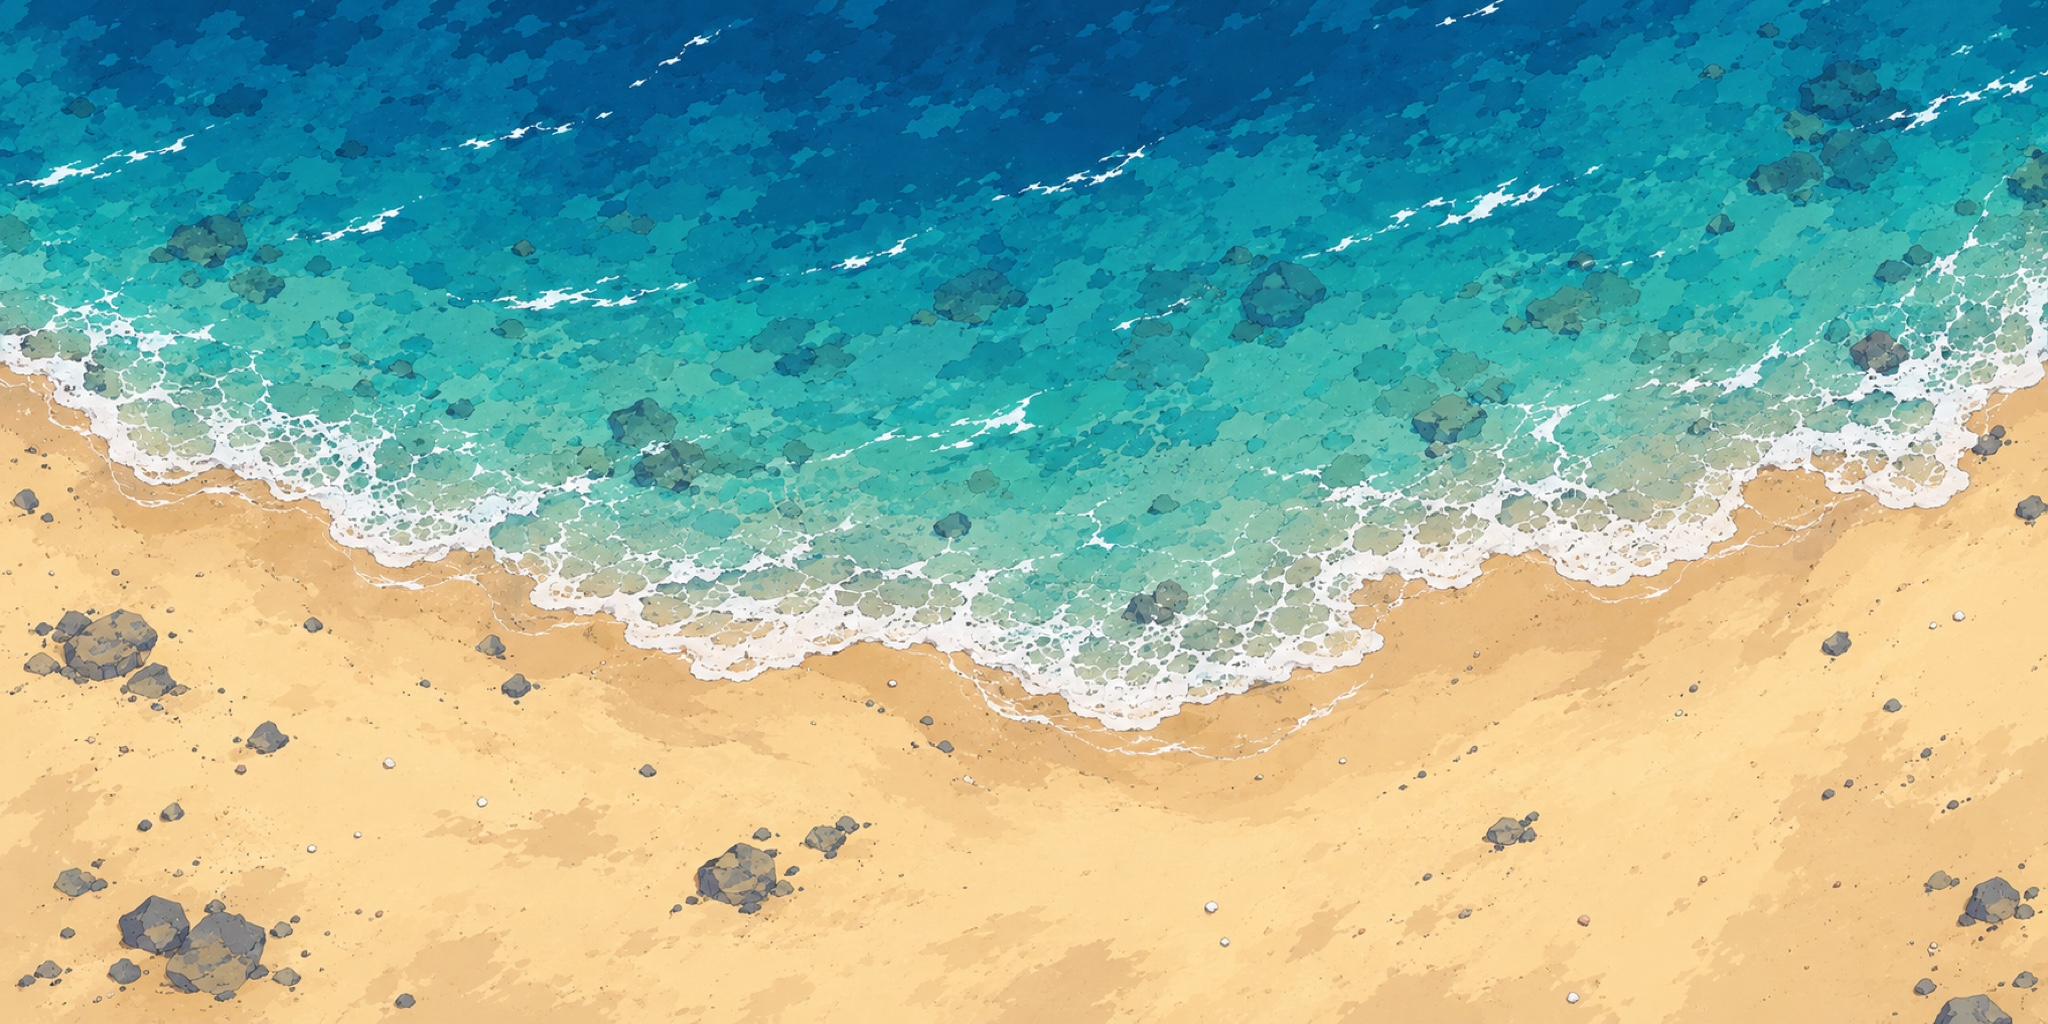
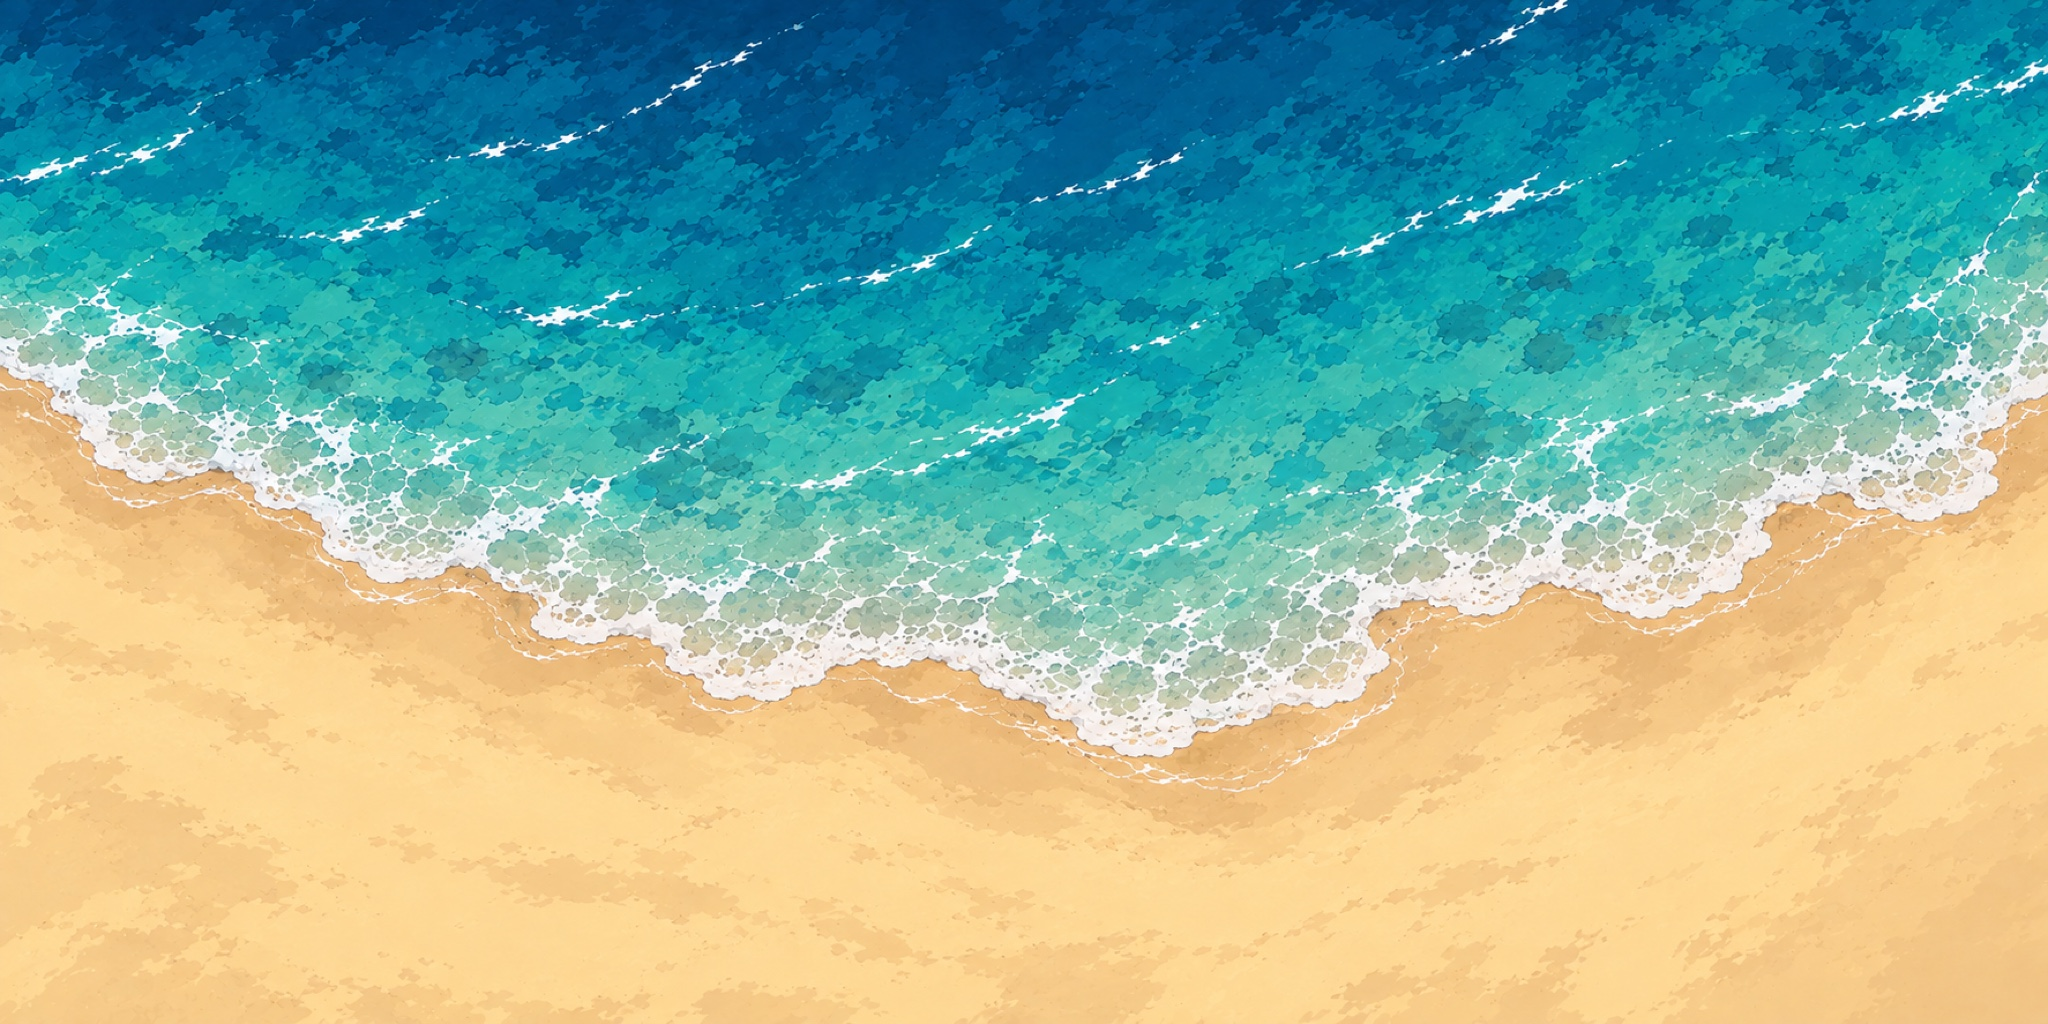
Shore painting swapped for Josh's rock-free version

diff --git a/public/planet.html b/public/planet.html
@@ -495,7 +495,7 @@ const colliders=[];let skyDome=null,nightDome=null,SUNSET=null;const PLACES={};
     const cv2=document.createElement('canvas');cv2.width=2048;cv2.height=1024;const g2=cv2.getContext('2d');g2.fillStyle='#e9dcb0';g2.fillRect(0,0,2048,1024);
     const tex=new THREE.CanvasTexture(cv2);tex.wrapS=THREE.MirroredRepeatWrapping;tex.wrapT=THREE.ClampToEdgeWrapping;tex.anisotropy=8;
     const img=new Image();img.onload=()=>{g2.drawImage(img,0,0,2048,1024);pathTex.ctx.drawImage(img,1080,700,320,300,0,0,512,512);pathTex.needsUpdate=true;const px=g2.getImageData(1024,24,1,1).data;waterMat.color.setRGB(px[0]/255,px[1]/255,px[2]/255); /* the open sea takes the painting's deep blue so the join disappears */
-      g2.globalCompositeOperation='destination-in';const fd=g2.createLinearGradient(0,0,0,1024);fd.addColorStop(0,'rgba(0,0,0,0)');fd.addColorStop(.18,'rgba(0,0,0,1)');fd.addColorStop(.93,'rgba(0,0,0,1)');fd.addColorStop(1,'rgba(0,0,0,0)');g2.fillStyle=fd;g2.fillRect(0,0,2048,1024);g2.globalCompositeOperation='source-over';tex.needsUpdate=true;};img.src='assets/shore.jpg';
+      g2.globalCompositeOperation='destination-in';const fd=g2.createLinearGradient(0,0,0,1024);fd.addColorStop(0,'rgba(0,0,0,0)');fd.addColorStop(.18,'rgba(0,0,0,1)');fd.addColorStop(.93,'rgba(0,0,0,1)');fd.addColorStop(1,'rgba(0,0,0,0)');g2.fillStyle=fd;g2.fillRect(0,0,2048,1024);g2.globalCompositeOperation='source-over';tex.needsUpdate=true;};img.src='assets/shore.jpg?v=2';
     const mat=new THREE.MeshBasicMaterial({map:tex,transparent:true,alphaTest:.03,side:THREE.DoubleSide,polygonOffset:true,polygonOffsetFactor:-1,polygonOffsetUnits:-1});
     /* the sea part of the painting moves: the shallows rise and fall with the toon water, and the foam line laps up the sand and back */
     mat.onBeforeCompile=sh=>{sh.uniforms.uT={value:0};mat.userData.sh=sh;
